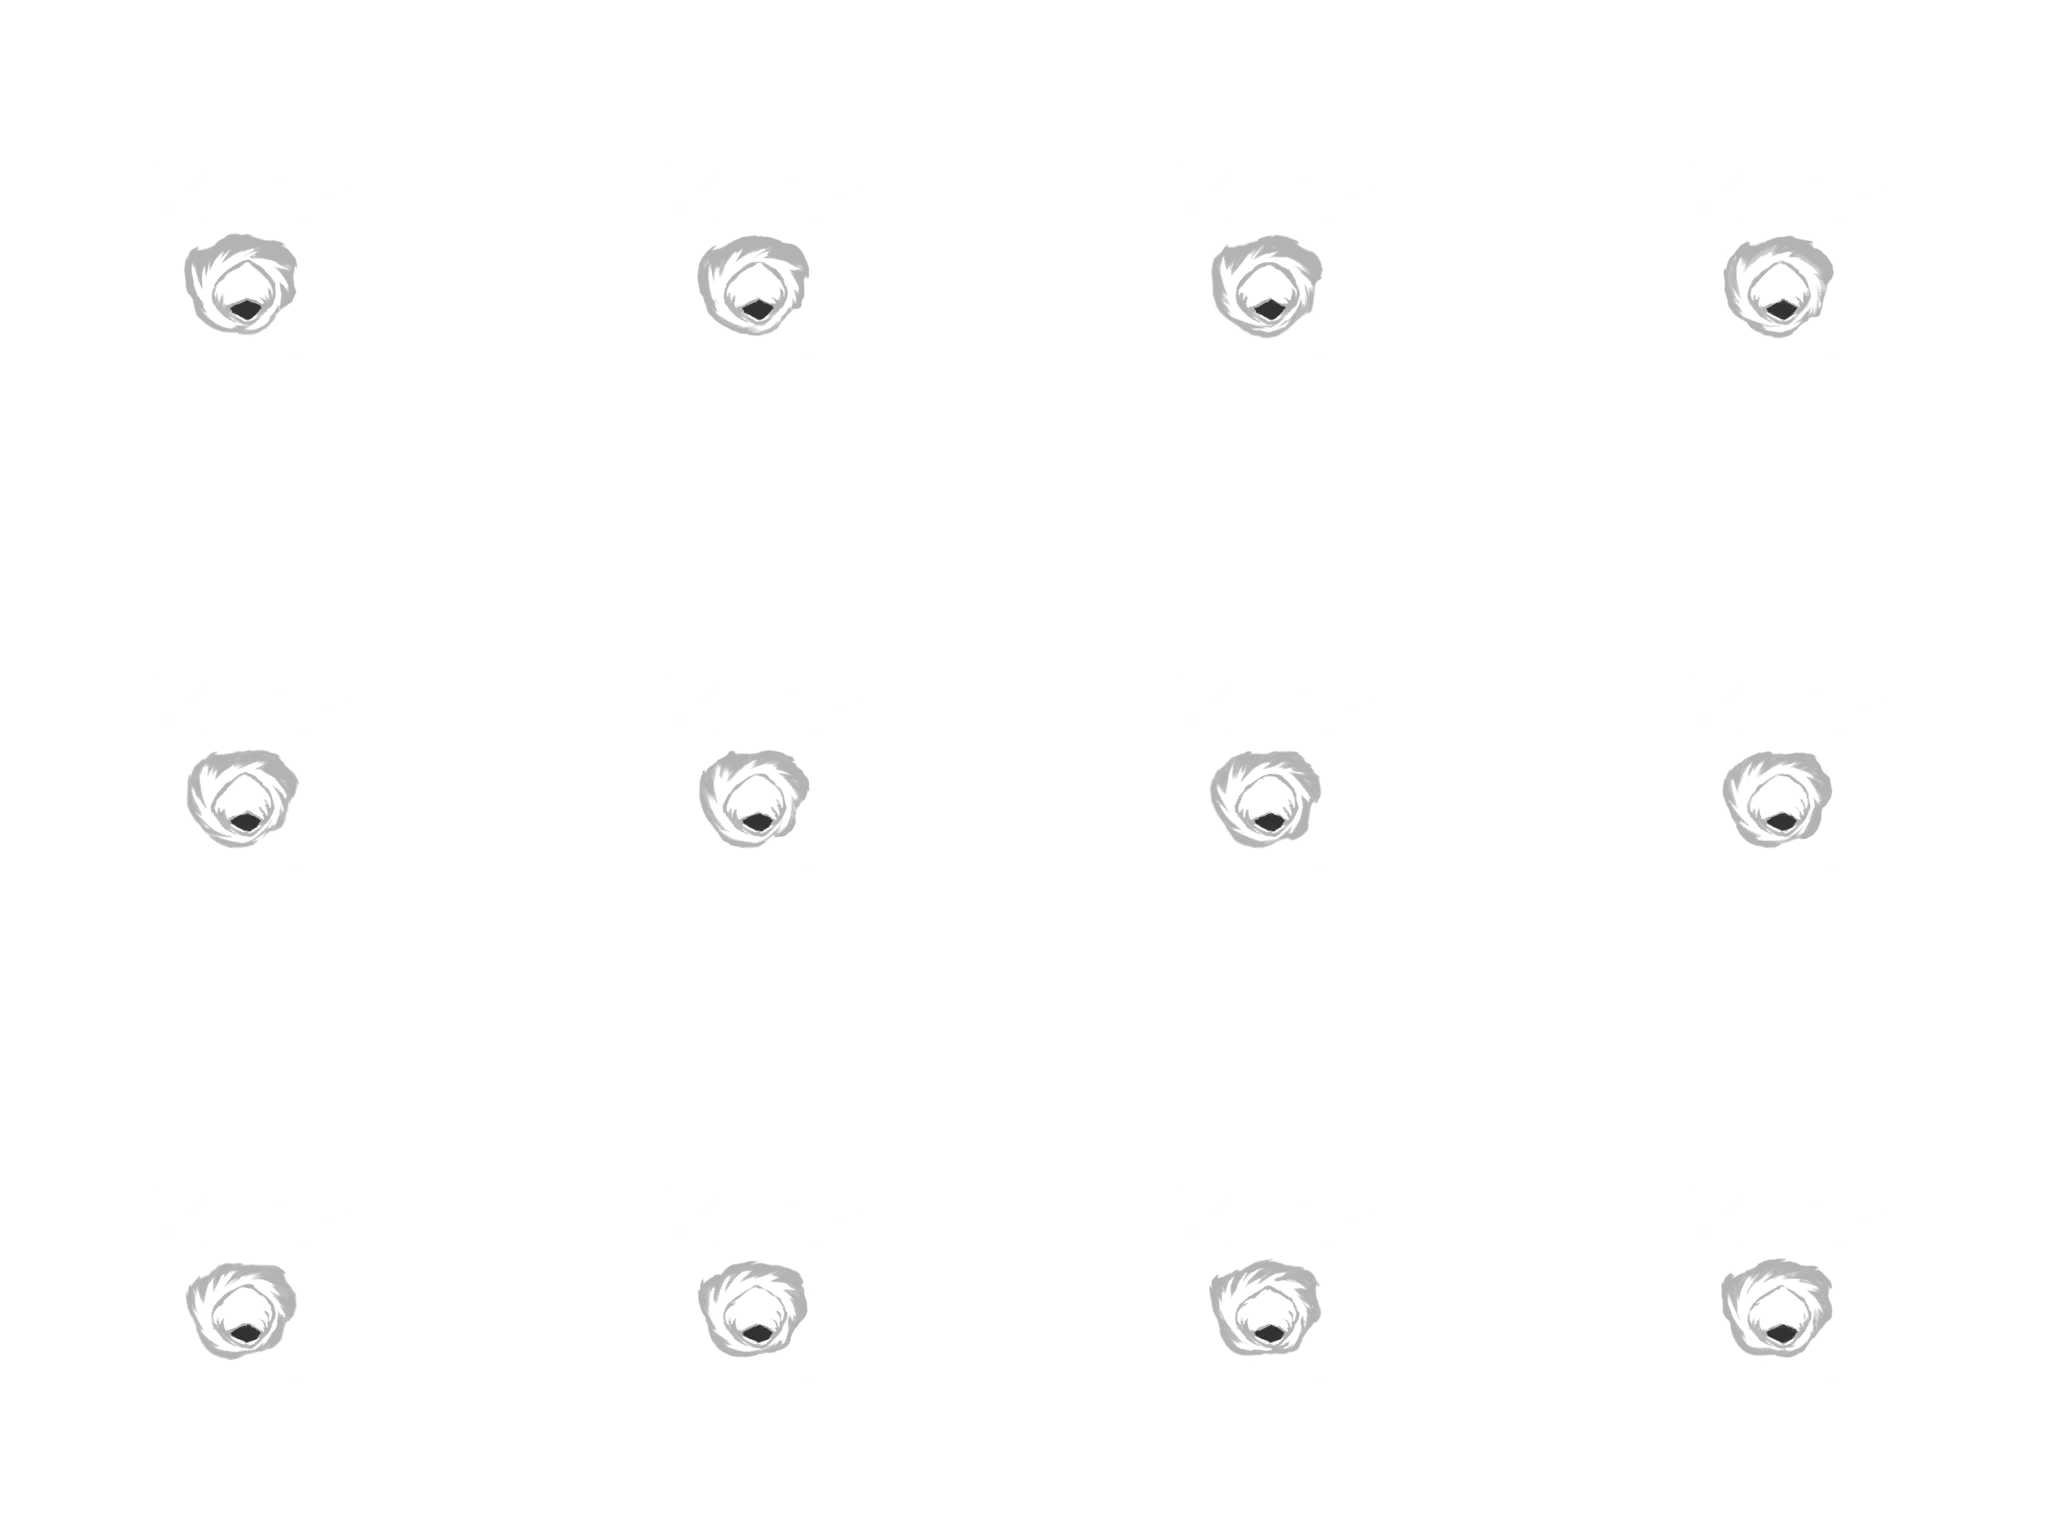
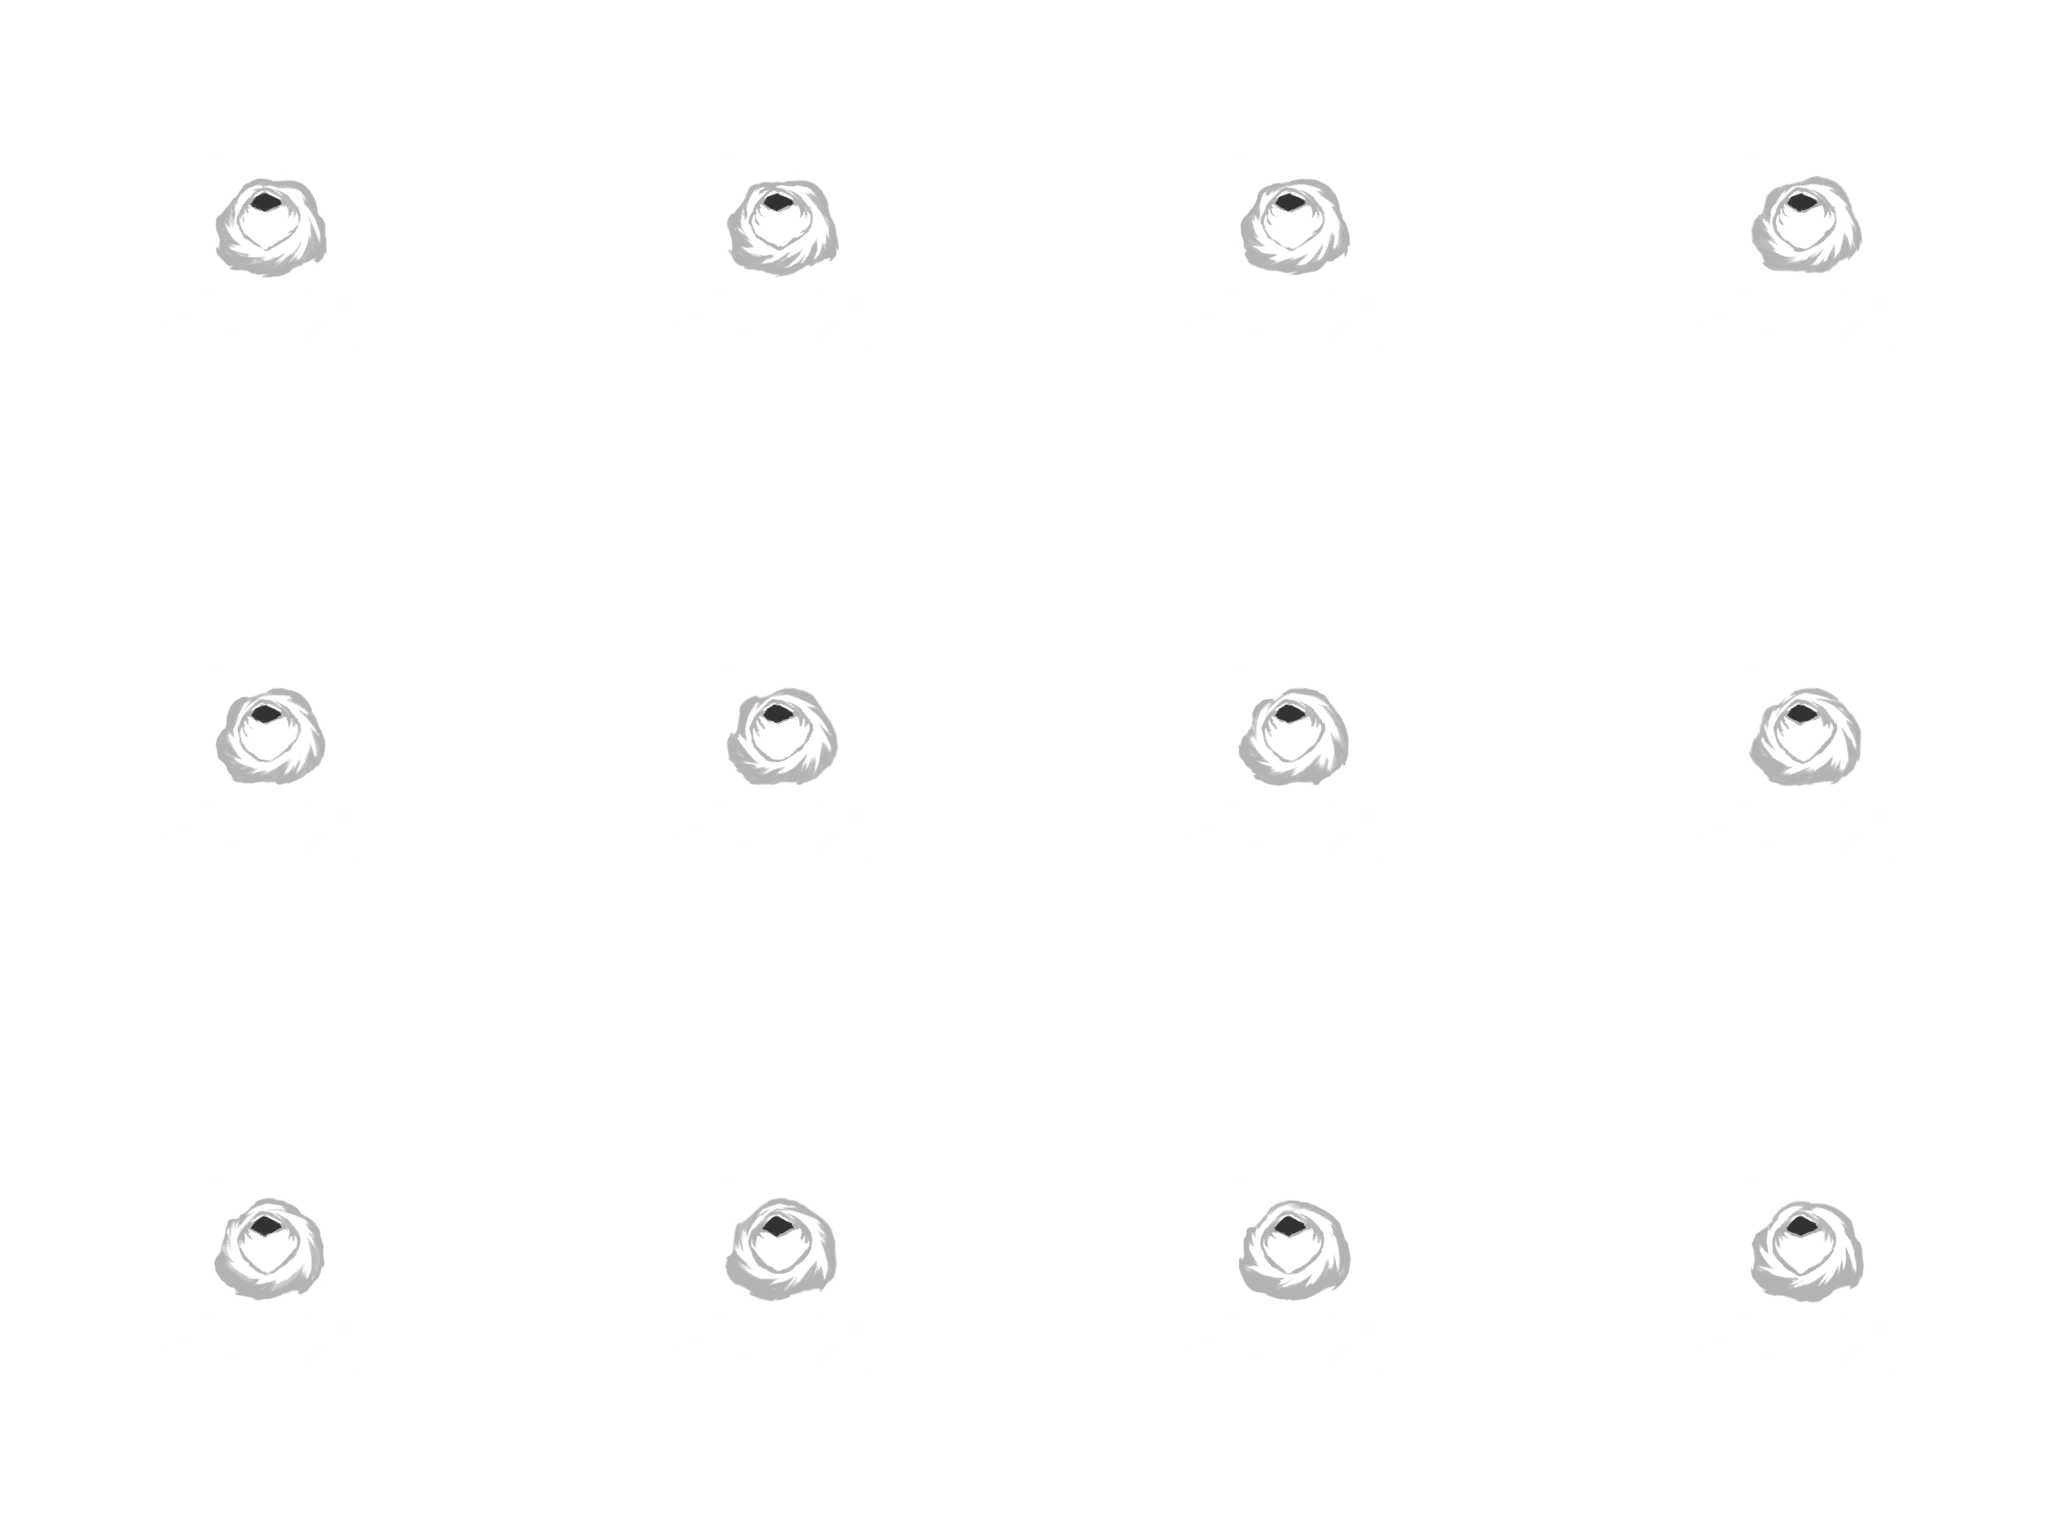
refactor: sprites

diff --git a/src/objects/player/sprite.ts b/src/objects/player/sprite.ts
@@ -4,19 +4,19 @@ import { material } from "./material";
 
 const textureLoader = new TextureLoader();
 
-const idle = textureLoader.load("Idle.png");
+const idle = textureLoader.load("/idle.png");
 
 idle.wrapS = RepeatWrapping;
 idle.wrapT = RepeatWrapping;
-idle.center.x -= 0.007;
-idle.center.y -= 0.022;
+idle.center.x = 0.007;
+idle.center.y = 0.022;
 
-const run = textureLoader.load("Run.png");
+const run = textureLoader.load("/run.png");
 
 run.wrapS = RepeatWrapping;
 run.wrapT = RepeatWrapping;
-run.center.x -= 0.005;
-run.center.y -= 0.015;
+run.center.x = 0.005;
+run.center.y = 0.015;
 
 const render = ({ texture, time, th, tv }: RenderSpriteArgs) => {
   if (material.map !== texture) {

diff --git a/src/utils/sprite.ts b/src/utils/sprite.ts
@@ -30,10 +30,10 @@ export const renderSprite = ({ texture, time, th, tv }: RenderSpriteArgs) => {
     resetSprite(time);
   }
 
-  const x = th - (tile % th || th) + 1;
-  const y = tv - Math.ceil(tile / th) + 1;
+  const x = tile % th || th;
+  const y = Math.ceil(tile / th);
 
   texture.repeat.set(1 / th, 1 / tv);
-  texture.offset.x = 1 - (1 / th) * x;
+  texture.offset.x = (1 / th) * -x;
   texture.offset.y = (1 / tv) * y;
 };

diff --git a/src/objects/player/index.ts b/src/objects/player/index.ts
@@ -15,7 +15,6 @@ const geometry = new PlaneGeometry(1.8, 1.8);
 const mesh = new Mesh(geometry, material);
 const arrow = createArrow();
 
-geometry.rotateZ(Math.PI);
 mesh.position.z = 0.1;
 group.add(mesh, arrow.mesh, attack.group);
 
